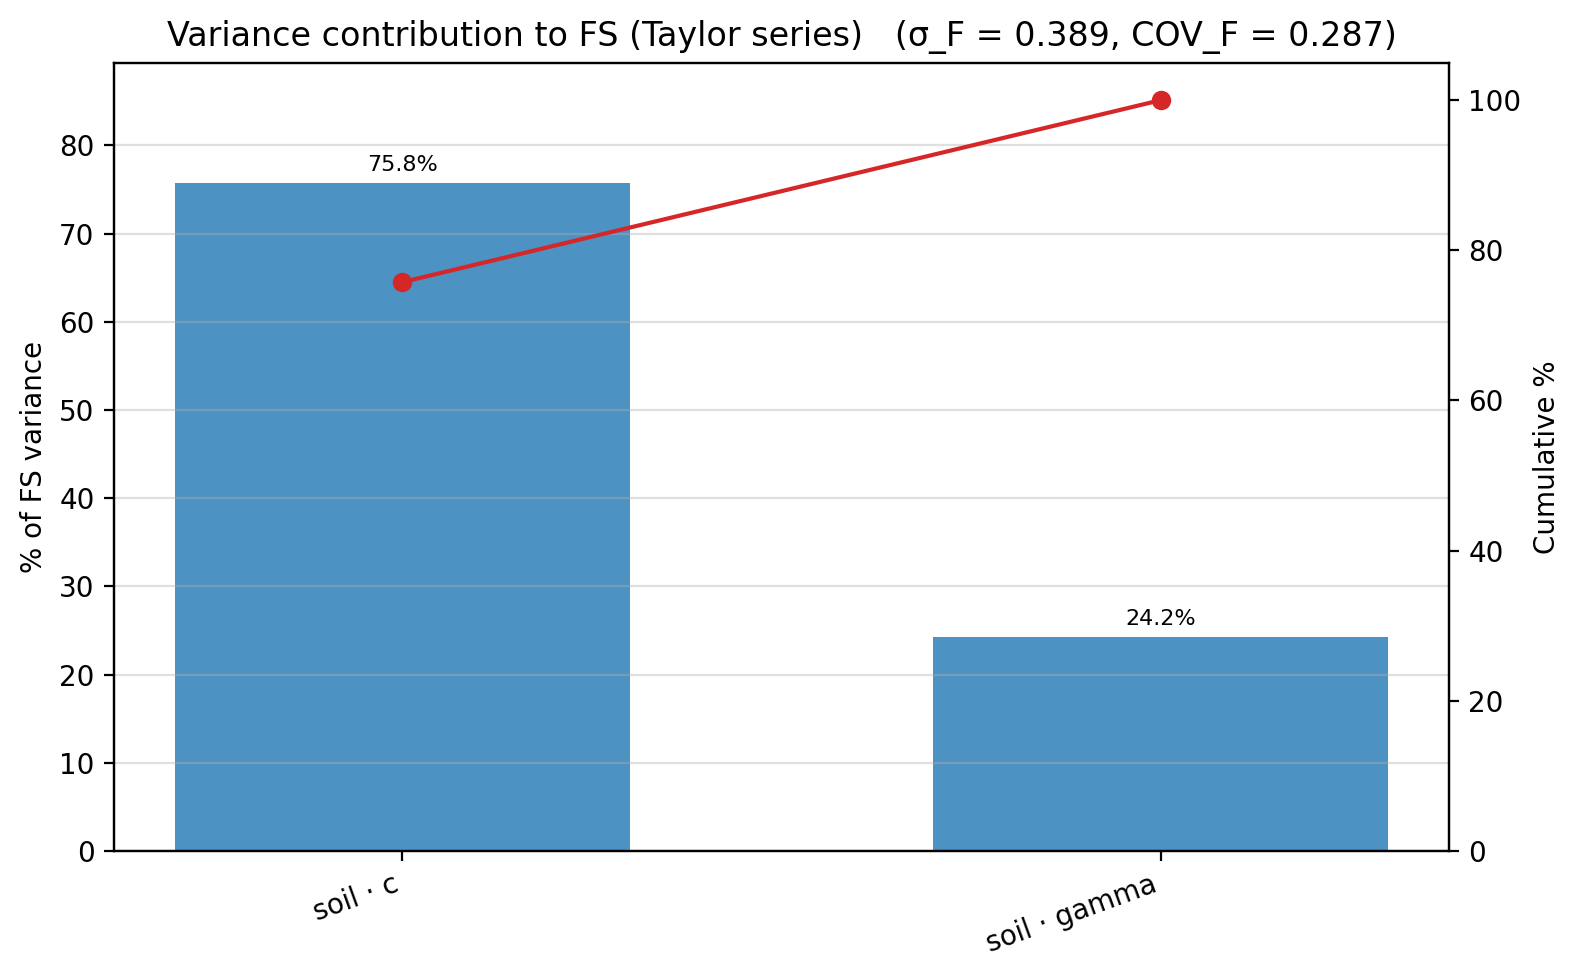
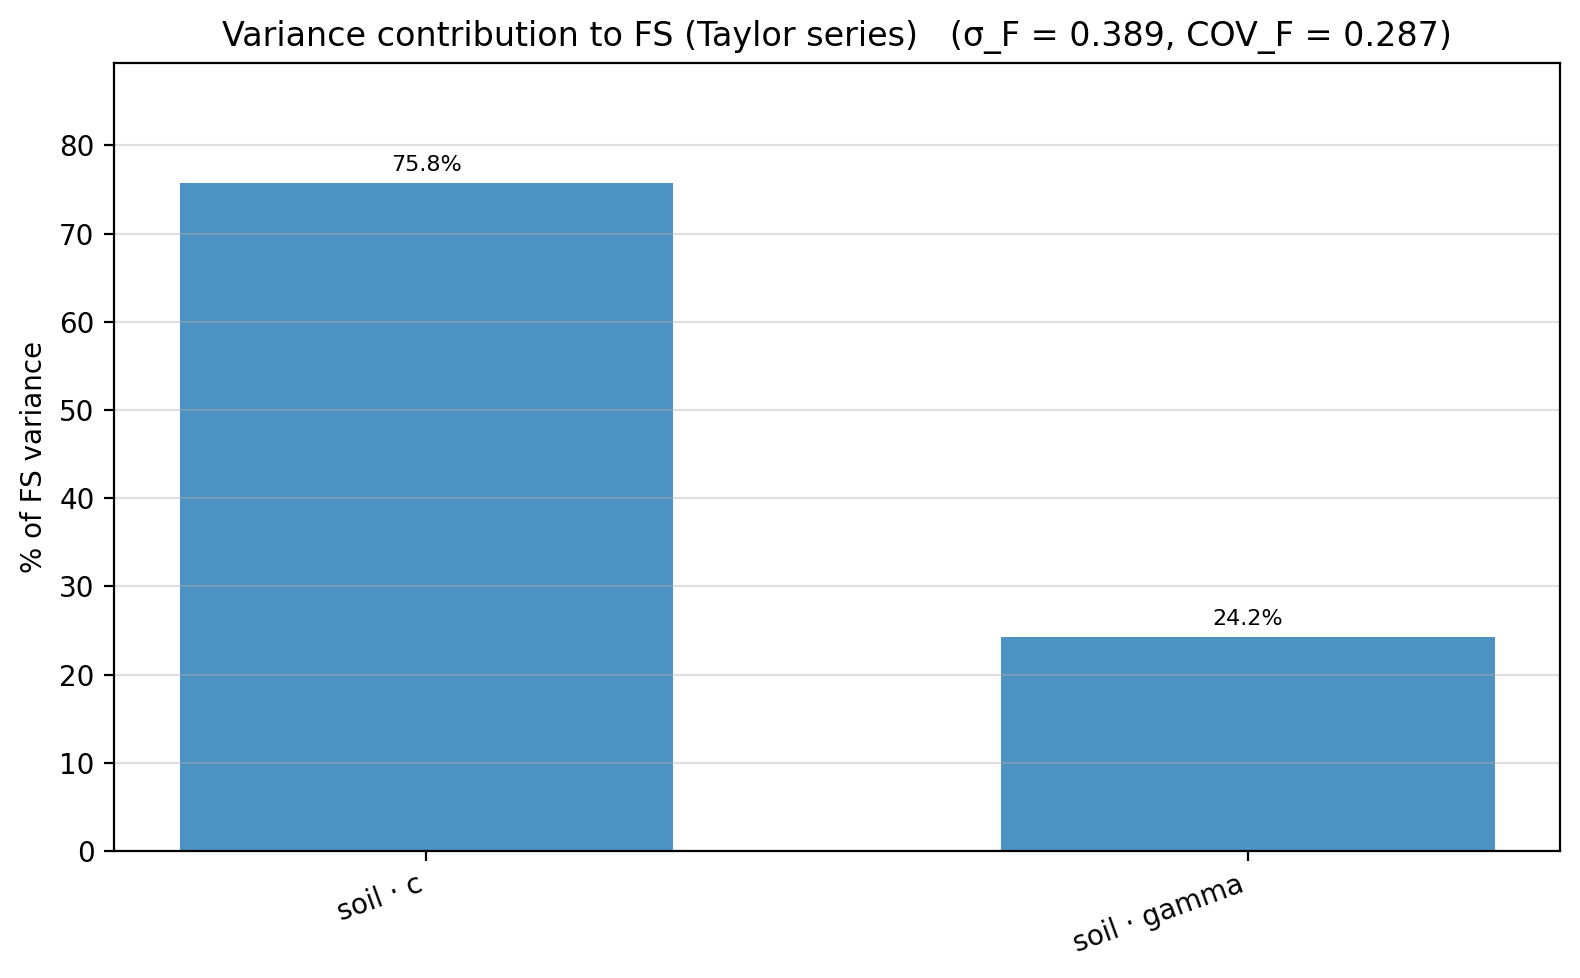
plot+docs(tutorials): the Pareto's cumulative line earns its axis, and the gamma sign gets its physics
The cumulative line is for finding the vital-few cutoff in a long bar list;
over two bars its last point is 100% by definition and it costs a second
axis, so plot_variance_pareto draws it only at three or more parameters —
a self-adjusting rule, not a per-figure tweak. LEM-11's Pareto regenerates
without it and the prose drops 'with the running total over them'.

The rank-correlation paragraph completes the gamma thought: weight drives
and, on a phi = 0 clay, none of it comes back as resistance — the same
physics as the Taylor table's inverted F+ — with the frictional-soil
contrast in one sentence.

Claude-Session: https://claude.ai/code/session_01XjjT2aBxw8gY7EFdpoUcpj

diff --git a/xslope/plot.py b/xslope/plot.py
@@ -5331,10 +5331,15 @@ def plot_variance_pareto(result, figsize=(8, 5), save_png=False, dpi=300, fig=No
     for xi, p in zip(x, pct):
         ax.annotate(f'{p:.1f}%', (xi, p), textcoords='offset points',
                     xytext=(0, 3), ha='center', va='bottom', fontsize=8)
-    ax2 = ax.twinx()
-    ax2.plot(x, cum, color=_SIGN_NEG_COLOR, marker='o', lw=1.5, label='cumulative')
-    ax2.set_ylim(0, 105)
-    ax2.set_ylabel('Cumulative %')
+    # The cumulative line is for finding the "vital few" cutoff in a long bar
+    # list; over one or two bars it restates them (the last point is 100% by
+    # definition) at the cost of a second axis, so it only draws at three plus.
+    if len(bars) >= 3:
+        ax2 = ax.twinx()
+        ax2.plot(x, cum, color=_SIGN_NEG_COLOR, marker='o', lw=1.5,
+                 label='cumulative')
+        ax2.set_ylim(0, 105)
+        ax2.set_ylabel('Cumulative %')
     ax.set_xticks(x)
     ax.set_xticklabels(labels, rotation=20, ha='right')
     ax.set_ylabel('% of FS variance')

diff --git a/docs/tutorials/lem11_reliability.md b/docs/tutorials/lem11_reliability.md
@@ -484,8 +484,7 @@ reads every σ-carrying material and ignores the table, as the note under it say
 
 ![The Parametric dialog set to the variance Pareto](images/lem11_studio_parametric_variance.png)
 
-Click **Run**. The bars are the two parameters, tallest first, with the running
-total over them:
+Click **Run**. The bars are the two parameters, tallest first:
 
 ![Each parameter's share of the factor-of-safety variance](images/lem11_variance.png){width=800}
 
@@ -510,9 +509,16 @@ Run it and the same verdict comes back:
 ![The Monte Carlo rank-correlation bars](images/lem11_rank.png){width=800}
 
 Cohesion at a correlation of +0.86, unit weight at −0.46 — and where the
-Pareto's bars are all positive shares, these carry a sign: more cohesion
-raises the factor of safety, a heavier slope lowers it. The cheap plot and
-the sampled one agree about what matters.
+Pareto's bars are all positive shares, these carry a sign. Cohesion's is the
+obvious one: more strength, higher factor of safety. The unit weight's
+negative sign is the same physics the Taylor table showed when the γ row's
+F⁺ came back the *lower* of its pair. Weight is the driving force, and on
+this φ = 0 clay the resistance is all cohesion, which gains nothing from the
+extra normal stress a heavier soil presses onto the failure surface — every
+added pound drives and none of it resists, so the heavier realizations fail
+more often. In a frictional soil some of that weight would come back as
+frictional resistance and the correlation would be weaker. The cheap plot
+and the sampled one agree about what matters.
 
 Three quarters of the uncertainty in the answer is therefore in one number, and
 that number is the one further site investigation would narrow. Another round of
